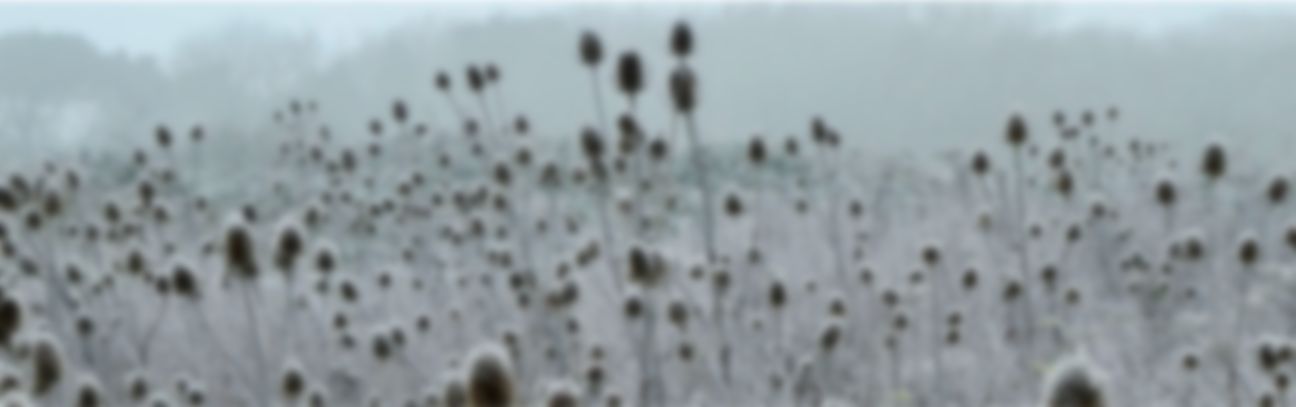
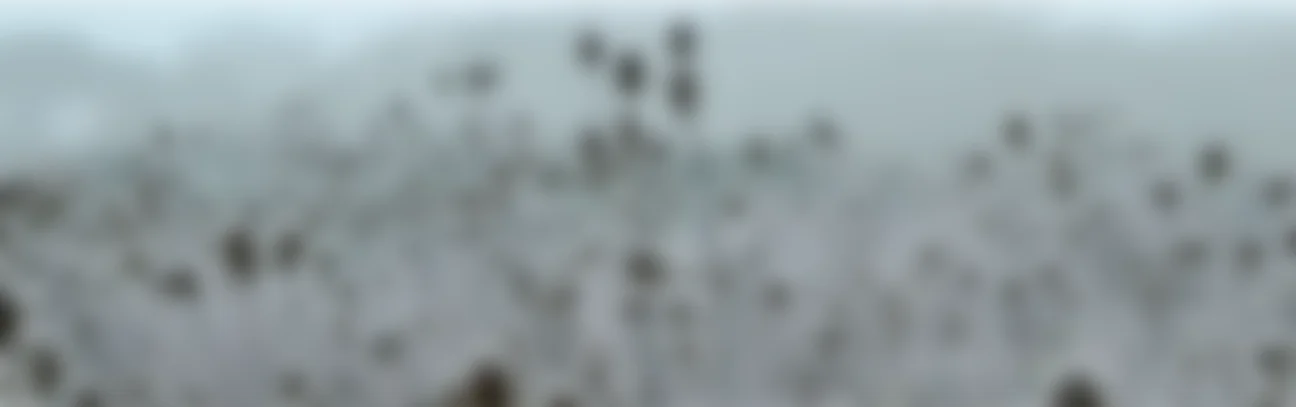
feat: morning blurred

diff --git a/public/index.html b/public/index.html
@@ -396,6 +396,13 @@
       --band: transparent;
       padding-top: 1rem;
 
+      /* Nudge the centered text up a little next to the popup */
+      @media (width > 860px) {
+        & .project-text {
+          margin-bottom: 6rem;
+        }
+      }
+
       &::before {
         content: none;
       }
